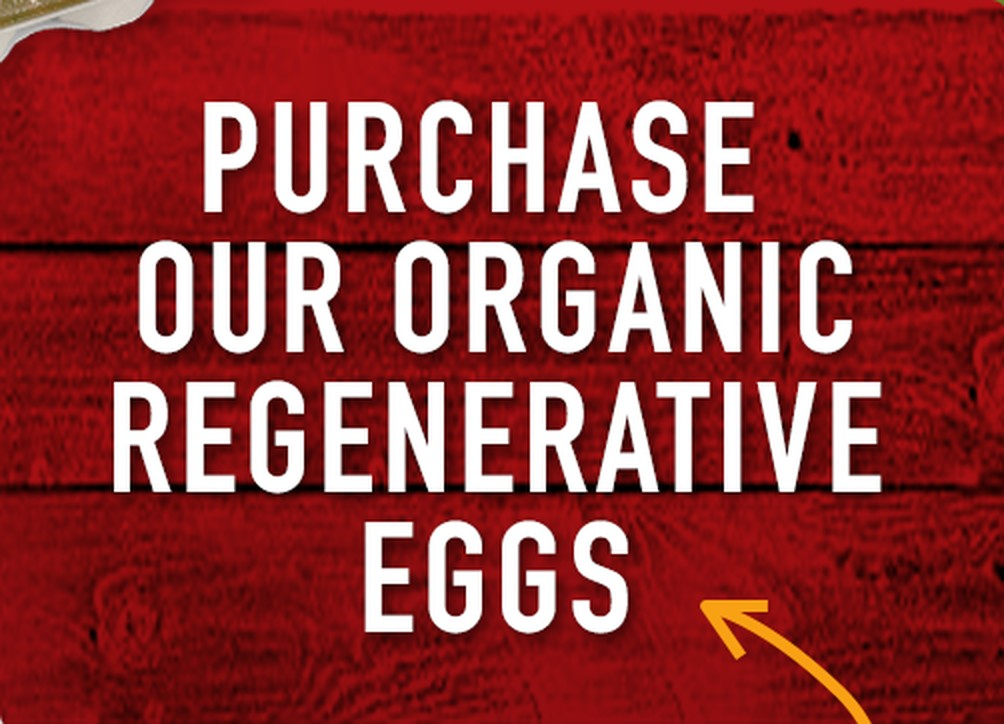
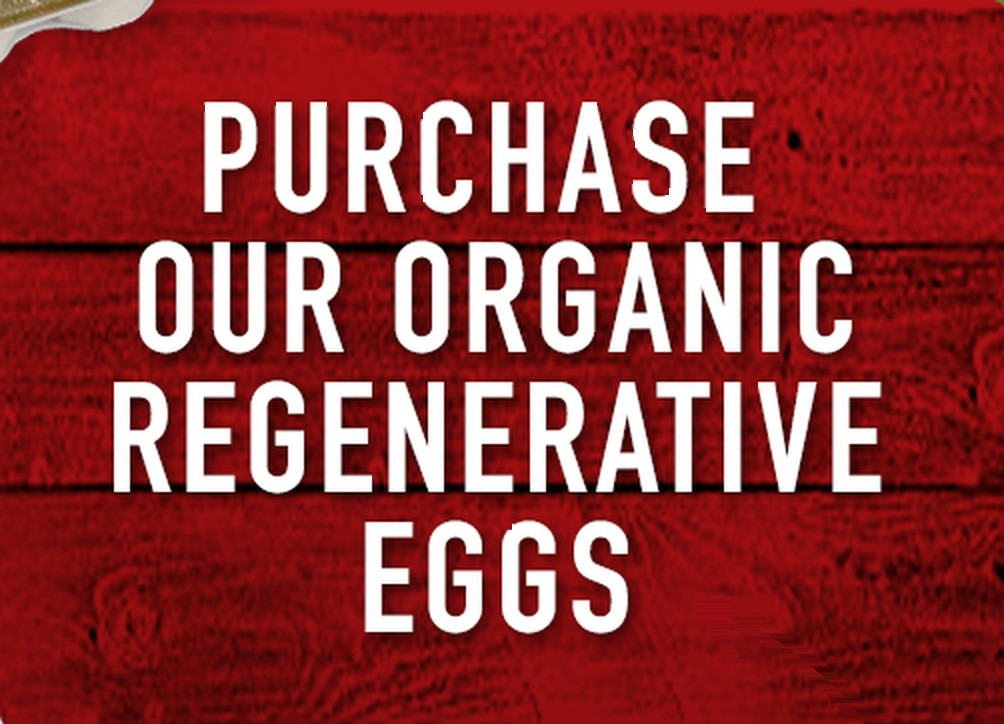
Section 3: torn card edges, single arrow, design type
Torn edges on the card's sides. The design's card artwork has ragged top and
bottom edges but STRAIGHT vertical cuts -- in the design those sit behind the
carton and the sign, so they never show. My layout leaves them exposed. The
card's own top-edge profile is resampled onto both vertical edges, so the tear
character matches by construction rather than being invented.

The "jaunting" notch. The same artwork is cut back from 1343 to 1191 at its
top-right (rows 0-60) and bottom-right (row 660) -- again hidden behind the
carton in the design. Those rows are filled out to full width before the torn
profile is cut. Sampling has to come from a fully-opaque row mid-card: my first
attempt sampled at xs.max()-6, which sits in the anti-aliased fringe, and
painted 9188 dark pixels into the fill -- the black lines that appeared along
the card's right edge.

Double yellow arrow. The second one is baked into sign-purchase.jpg at
x700-870 y600-723. The markup only ever had one <img>. Repainted from the
nearest clean pixel on each row so the wood grain's horizontal banding
survives; 0 orange pixels remain.

Type. Read from the .fig's text nodes rather than guessed:

  Regenerative   Nexa Rust Script B  124px    lh 103    #7DA856
  AGRICULTURE    Ultra               68.77px  ls 5.47   #00608B
  body           Lato                32.66px  lh 49     ls 0.65  #000000

AGRICULTURE was in DIN Condensed, which was my own reading of the flattened
[…]

Changed region(s): [[0.6793, 0.8204, 0.8645, 1.0]]

diff --git a/scripts/qa/regen/sec3test.js b/scripts/qa/regen/sec3test.js
@@ -49,6 +49,13 @@ const R=[];const ck=(n,p,d='')=>{R.push(p);console.log(`${p?'PASS':'FAIL'}  ${n}
               stageAbove:(()=>{const st=s.querySelector('.regen-agri-stage');
                 if(!st) return null;
                 return +(secr.top-st.getBoundingClientRect().top).toFixed(1);})(),
+              // Type against the design's own spec, scaled from the 2075
+              // artboard: Nexa Rust 124px, Ultra 68.77px, Lato 32.66px.
+              typePx:(()=>{const sp=h.querySelectorAll('span');
+                const k=innerWidth/2075;
+                return {script:+(parseFloat(getComputedStyle(sp[0]).fontSize)/k).toFixed(1),
+                        ultra:+(parseFloat(getComputedStyle(sp[1]).fontSize)/k).toFixed(1),
+                        body:+(parseFloat(getComputedStyle(s.querySelector('p')).fontSize)/k).toFixed(1)};})(),
               bodyPx:parseFloat(getComputedStyle(s.querySelector('p')).fontSize),
               copyGround:(()=>{const el=s.querySelector('p');
                 const bg=getComputedStyle(el).backgroundColor;
@@ -57,7 +64,10 @@ const R=[];const ck=(n,p,d='')=>{R.push(p);console.log(`${p?'PASS':'FAIL'}  ${n}
     });
     console.log(`\n  --- ${label} (${w}px) ---`);
     ck('"Regenerative" in the script face', m.script==='nexa-rust-script-shad-2', m.script);
-    ck('"AGRICULTURE" in DIN Condensed', m.din==='din-condensed', m.din);
+    // The design sets this in Ultra, not DIN Condensed -- 68.77px, 5.47px
+    // tracking, #00608B, read from the text node. The old expectation was my
+    // own guess from the flattened render.
+    ck('"AGRICULTURE" in Ultra', m.din==='Ultra', m.din);
     if(w===1440){
       // 64.77%: the design's own card (Layer 2 copy 8, 1344 of the 2075
       // artboard). The old 62.7% was measured off a screenshot.
@@ -69,6 +79,11 @@ const R=[];const ck=(n,p,d='')=>{R.push(p);console.log(`${p?'PASS':'FAIL'}  ${n}
       ck('stacked content stays inside its section', m.stageAbove<=1, `${m.stageAbove}px above`);
     ck('body copy is readable', m.bodyPx>=13, `${m.bodyPx}px`);
     if(w<768) ck('copy has a ground behind it on phones', m.copyGround);
+    if(w===1440){
+      ck('script heading at design size', Math.abs(m.typePx.script-124)<4, `${m.typePx.script}px vs 124px`);
+      ck('Ultra heading at design size', Math.abs(m.typePx.ultra-68.77)<3, `${m.typePx.ultra}px vs 68.8px`);
+      ck('body copy at design size', Math.abs(m.typePx.body-32.66)<2, `${m.typePx.body}px vs 32.7px`);
+    }
     ck('sign is a real link to /products', m.isLink);
     ck('sign carries its wording as alt text', /purchase our organic/i.test(m.signAlt||''), m.signAlt);
     ck('grass ground loads', m.grassOK);

diff --git a/components/regenerative/Content.js b/components/regenerative/Content.js
@@ -102,23 +102,23 @@ export function Content() {
             className="block"
             style={{
               fontFamily: "nexa-rust-script-shad-2, cursive",
-              color: "#7CA854",
-              fontSize: "3.33cqw",
-              lineHeight: 1,
+              color: "#7DA856",
+              fontSize: "5.976cqw",
+              lineHeight: 0.831,
             }}
           >
             Regenerative
           </span>
+          {/* The design sets this in Ultra, not DIN Condensed -- 68.77px on a
+              2075 artboard, 5.47px tracking, #00608B. */}
           <span
             className="block uppercase"
             style={{
-              fontFamily: "din-condensed, 'Arial Narrow', sans-serif",
-              fontWeight: 700,
-              color: "#006088",
-              fontSize: "3.20cqw",
-              letterSpacing: "0.02em",
-              lineHeight: 1,
-              marginTop: "-0.06em",
+              fontFamily: "'Ultra', Rockwell, Georgia, serif",
+              color: "#00608B",
+              fontSize: "3.314cqw",
+              letterSpacing: "0.0795em",
+              lineHeight: 1.121,
             }}
           >
             Agriculture
@@ -130,9 +130,10 @@ export function Content() {
           style={{
             left: "18.70%", top: "56.34%", width: "40.67%", zIndex: 3,
             fontFamily: "'Lato', system-ui, sans-serif",
-            color: "#2B2B2B",
-            fontSize: "1.16cqw",
-            lineHeight: 1.62,
+            color: "#000000",
+            fontSize: "1.574cqw",
+            letterSpacing: "0.0199em",
+            lineHeight: 1.5,
           }}
         >
           is a collection of practices that focus on regenerative soil health
